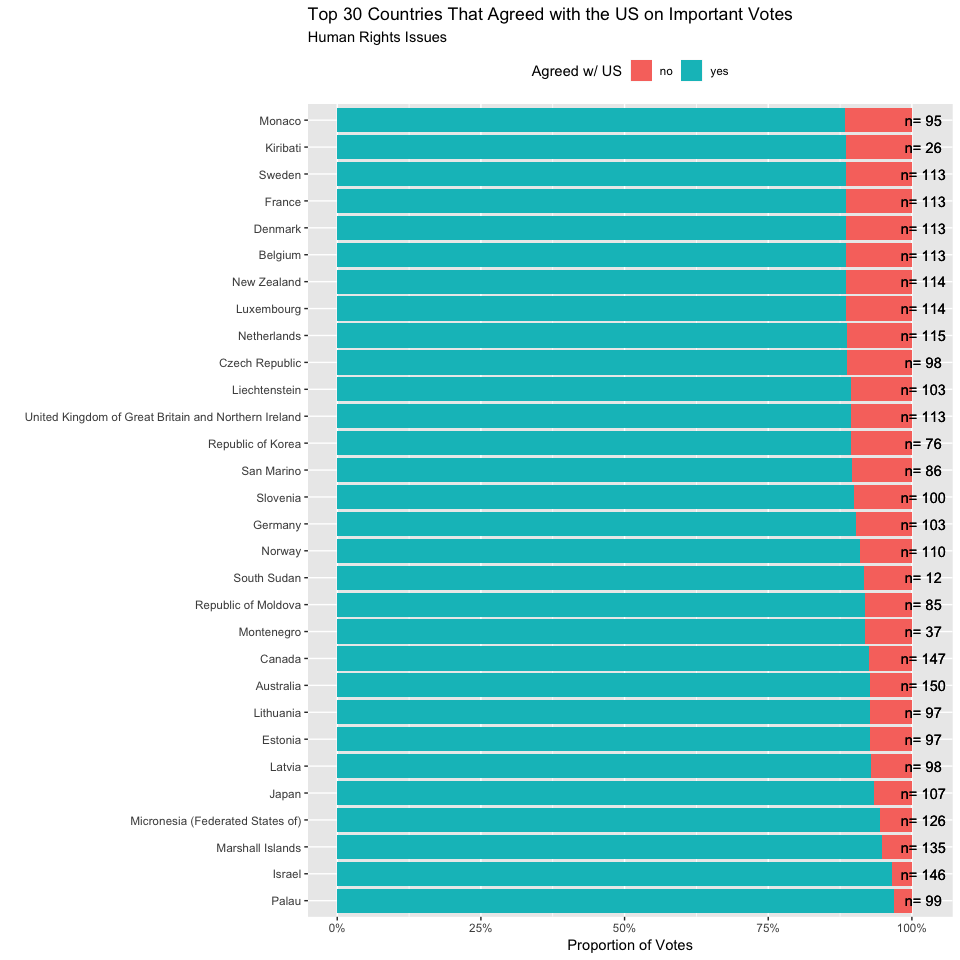
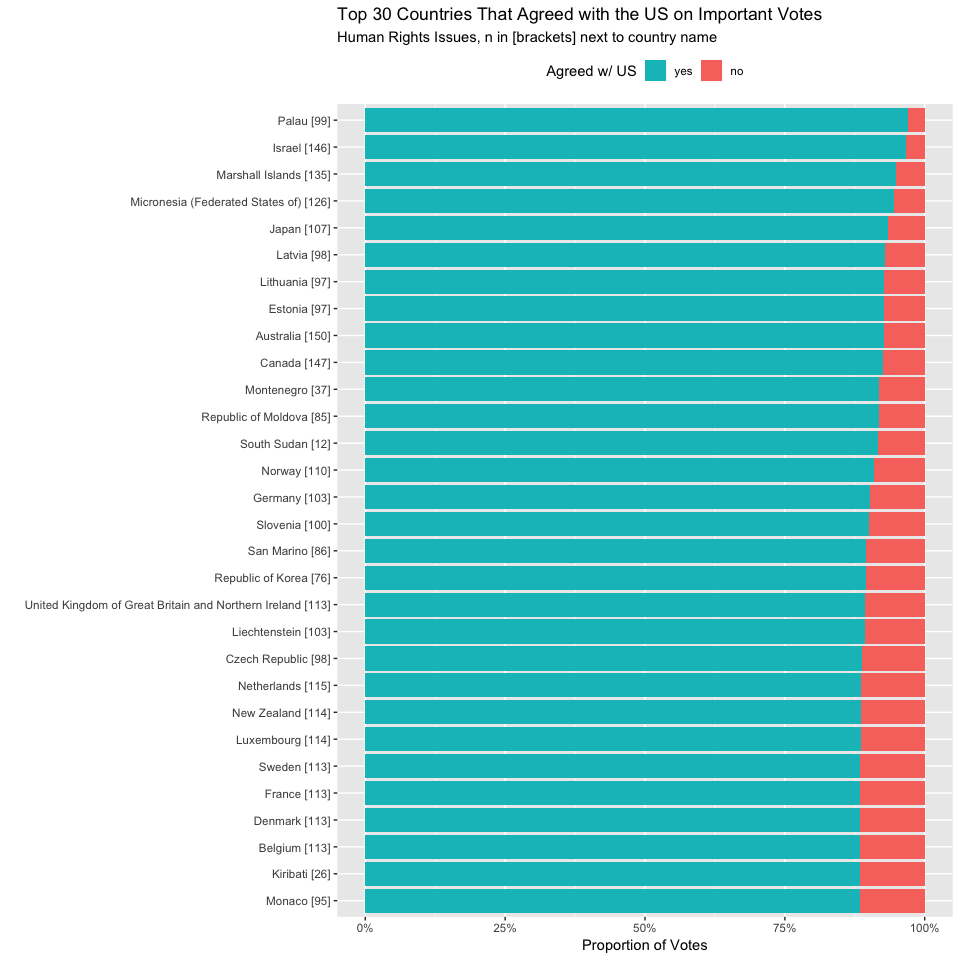
updated code for countries' agreeableness with US on important HR votes

diff --git a/UN.md b/UN.md
@@ -377,7 +377,7 @@ un_hr_us_ca %>%
 
 ![](UN_files/figure-markdown_github/unnamed-chunk-14-1.png)
 
-62% of Human Rights votes Canada agreed with the US on. Abstain votes excluded.
+81% of Human Rights votes Canada agreed with the US on. Abstain votes excluded.
 
 ``` r
 un_hr_us_ca %>%
@@ -511,31 +511,25 @@ all_countries_important <- map_dfr(all_countries, function(x){
     mutate(compare_country = x)
 })
 
-# vector to order countries in chart by proportion of yes within important votes
-order_vec <- all_countries_important %>% 
-  spread(agree, n, sep = "_", fill = 0) %>%
-  mutate(prop_no = agree_no / (agree_no + agree_yes),
-         prop_yes = 1 - prop_no) %>%
-  filter(importantvote == 1) %>% 
-  arrange(desc(prop_yes)) %>% ungroup() %>% select(compare_country) %>% as_vector()
-
 
 all_countries_important %>% filter(importantvote == 1) %>%
-  group_by(compare_country) %>%
-  mutate(total_n = sum(n)) %>%
-  ungroup() %>%
-  mutate(compare_country = factor(compare_country, level = order_vec)) %>%
-  arrange(compare_country) %>%
-  head(60) %>%
-  ggplot(aes(x = compare_country, y = n, fill = agree)) + 
-  geom_bar(stat = "identity", position = "fill") +
-  geom_text(aes(label = paste("n=",total_n), y = 1.02)) +
+  spread(agree, n, sep = "_", fill = 0) %>%
+  mutate(no = agree_no / (agree_no + agree_yes),
+         yes = 1 - no) %>%
+  arrange(desc(yes)) %>%
+  head(30) %>%
+  mutate(compare_country = fct_reorder(paste(compare_country, " [", agree_no + agree_yes, "]", sep=""), yes)) %>% 
+  gather(key = "var", value = "prop", -importantvote, -compare_country, -agree_no, -agree_yes) %>%
+  select(-agree_no, -agree_yes) %>%
+  ggplot(aes(x = compare_country, y = prop, fill = var)) + 
+  geom_bar(stat = "identity", position = "stack") +
   labs(x = "", 
         y = "Proportion of Votes",
         fill = "Agreed w/ US",
         title = "Top 30 Countries That Agreed with the US on Important Votes",
-        subtitle = "Human Rights Issues") +
+        subtitle = "Human Rights Issues, n in [brackets] next to country name") +
   scale_y_continuous(labels = percent) +
+  scale_fill_discrete(breaks = c("yes", "no")) +
   coord_flip() +
   theme(legend.position = "top")
 ```
@@ -545,4 +539,4 @@ all_countries_important %>% filter(importantvote == 1) %>%
 Final Thoughts
 --------------
 
-I didn't know much about diplomatic relations to begin with, but by exploring the data set some interesting things turned up which led me to do some Googling. From there I learned about what happened with Taiwan and why it is no longer part of the UN, and a bit about the country of Palau and its relationship with the US. Moreover, I learned how to use reduction `map_()` functions from the `purrr` package, and what the the `complete()` function from the `tidyr` is used for. Figuring out how to sort the bars in the last chart was a bit challenging, and I'm not entirely sure that my approach is the best way (but it will do for now).
+I didn't know much about diplomatic relations to begin with, but by exploring the data set some interesting things turned up which led me to do some Googling. From there I learned about what happened with Taiwan and why it is no longer part of the UN, and a bit about the country of Palau and its relationship with the US. Moreover, I learned how to use reduction `map_()` functions from the `purrr` package, and what the the `complete()` function from the `tidyr` is used for. Figuring out how to sort the bars in the last chart was a bit challenging, I've tried it two different ways, and my first attempt didn't seem as "good" and used more code than needed (previous version in my github).
